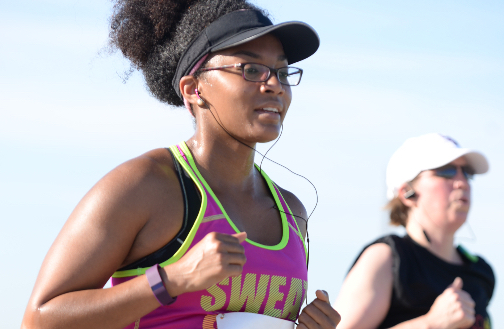
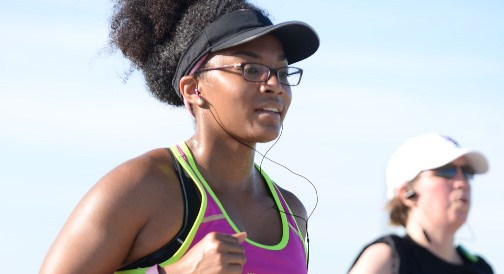
styles updated

diff --git a/css/styles.css b/css/styles.css
@@ -227,7 +227,6 @@ a.dropdown-item {
 	#footer-dropdown {
 		display: none!important;
 	}
-
 }
 
 
@@ -438,12 +437,6 @@ a.dropdown-item {
 	text-align: center;
   }
 
-  .thumb-post img {
-	object-fit: cover; /* Do not scale the image */
-	width: 100%;
-	height: 90%;
-	margin-bottom: 1rem;
-  }
 
 /*--------------------------End Nav bar + Footer----------------------------*/
 

diff --git a/get-involved.php b/get-involved.php
@@ -1,6 +1,81 @@
 <?php
+  include("dbconn.inc.php");
   include("shared.php");
+  $conn = dbConnect();
   print($htmlNav);
+?>
+<?php
+print("<div class='container'>");
+
+
+	print("<h1 class='my-5 text-center'>Events</h1>
+
+  <h2 class='resources-heading'>Upcoming Events</h2>
+  <br>");
+
+	$sql = "SELECT EID, EImagePreview, EName, EDate, EStart, EEnd, ELocation, EDescriptionPreview, ELinks, RegisterEvtBtn FROM Events LIMIT 3";
+
+/* create a prepared statement */
+$stmt = $conn->stmt_init();
+
+if ($stmt->prepare($sql)) {
+
+	/* execute statement */
+	$stmt->execute();
+
+	/* bind result variables */
+	$stmt->bind_result($EID, $EImagePreview, $EName, $EDate, $EStart, $EEnd, $ELocation, $EDescriptionPreview, $ELinks, $RegisterEvtBtn);
+
+	print ("<div><div class='col-md-12 d-flex flex-md-row flex-column py-4'>");
+	/* fetch values */
+	while ($stmt->fetch()) {
+    $date=date('l\,\ F jS\,\ Y', strtotime($EDate));
+    $timeStart=date('g:i A', strtotime($EStart));
+    $timeEnd=date('g:i A', strtotime($EEnd));
+		print ("<div class='w-100'>
+    <div class='col-12'>
+      <img class='w-100' src='img/$EImagePreview'  alt='Image of $EName Event' title= 'Image of $EName Event'>
+    </div>
+     <div class='d-flex align-items-start flex-column col-12'>
+     <h3 class='events-mobile-spacing'>$EName</h3><p class='cover'><i class='fa fa-calendar-o event-icon' aria-hidden='true'></i> $date<br><i class='fa fa-clock-o event-icon' aria-hidden='true'></i> $timeStart - $timeEnd<br><i class='fa fa-map-marker event-icon' aria-hidden='true'></i> $ELocation</p><p>$EDescriptionPreview</p>
+
+     <div class='w-100'>
+      <a href='$ELinks?EID=$EID'>
+      <button type='button' class='btn btn-naf-secondary-btn w-100 my-3'>VIEW EVENT</button></a>
+
+      <a href='$RegisterEvtBtn' target='_blank'>
+      <button type='button' class='btn btn-naf-primary-btn w-100 my-3'>REGISTER</button></a></div>
+     </div>
+     </div>");
+}
+print ("</div></div>
+<h2 class='resources-heading'>Volunteer</h2>
+<br>
+<div class='col-md-6'>
+  <img class='cover' src='img/volunteer.png'  alt='Image of volunteers at an event' title= 'Image of volunteers at an event'>
+</div>
+ <div class='d-flex align-items-start flex-column col-md-6'>
+ <h3 class='events-mobile-spacing header-blue'>You CAN Make A Difference</h3><p class='cover'>Volunteers are vital to our mission. Whether you
+would like to assist with a special NAF event,
+spread the word about NAF, or help us raise
+valuable financial support - we need your help!</p>
+
+ <div class='flex-column w-100'>
+  <a class='events-btn-padding-right' href='volunteer.php'>
+  <button type='button' class='btn btn-naf-secondary-btn events-btn-width'>BECOME A VOLUNTEER</button></a>
+ </div>
+ </div>");
+
+/* close statement */
+$stmt->close();
+
+} else {
+print ("query failed");
+}
+
+print("</div>");
+
+$conn->close();
 ?>
 <?php
   print($htmlFooter);
